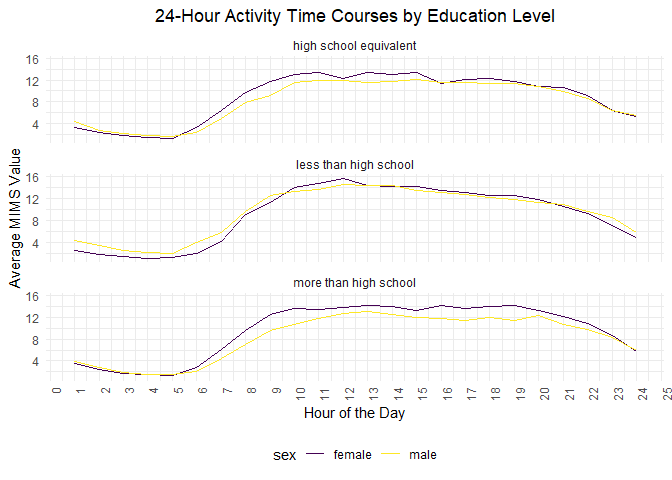
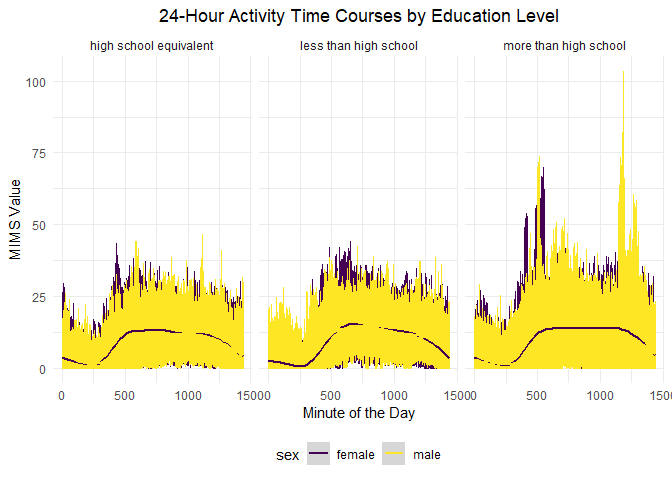
I noticed that I misread the prompt for probem 3 which led me to creating the wrong 3-panel plot. I was grouping by hours but should have just focused on the minutes. I fixed this issue then also added a trend line with geom_smooth. Additionally, since the plot changed, I needed to fix my interpreta

diff --git a/p8105_hw3_sjk2254.md b/p8105_hw3_sjk2254.md
@@ -447,33 +447,33 @@ have higher values.
 ``` r
 # making a 3-panel plot
 
-ac_dem_df |> 
-  mutate(minute = as.numeric(minute),
-         hour = (minute - 1) %/% 60 + 1) |> 
-  group_by(hour, education, sex) |> 
-  summarise(average_activity = mean(mims_values)) |> 
-  ggplot(aes(x = hour, y = average_activity, color = sex)) +
+ac_dem_df |>
+  mutate(minute = as.numeric(minute)) |> 
+  group_by(seqn) |> 
+  ggplot(aes(x = minute, y = mims_values, color = sex)) +
   geom_line() +
-  scale_x_continuous(n.breaks=24) +
-  facet_wrap(~education, ncol = 1) +
+  geom_smooth(aes(group = sex)) +
+  facet_wrap(~education, nrow = 1) +
   labs(
-    x = "Hour of the Day",
-    y = "Average MIMS Value",
+    x = "Minute of the Day",
+    y = "MIMS Value",
     title = "24-Hour Activity Time Courses by Education Level"
   ) +
-  theme(axis.text.x = element_text(angle = 90, vjust = 1, hjust=1)) +
   theme(plot.title = element_text(hjust = 0.5))
 ```
 
 ![](p8105_hw3_sjk2254_files/figure-gfm/unnamed-chunk-22-1.png)<!-- -->
 
 The plot above shows the 24-hour average activity time courses for each
-sex based on each education level. You can see that in all educational
-levels, there is little activity in the beginning hours (roughly 1 - 5),
-an increase in activity (roughly 5 - 10), a fairly steady amount of
-activity (roughly 10 - 19), and lastly, there is a decrease in activity
-(roughly 19 - 24). This could be due to sleeping patterns. In the early
-hours (roughly 1 - 5), most people are asleep, then they get up and
-start exercising (roughly 5 - 10). This then steadies off (roughly 10 -
-19) due to people’s general exercise habits then there’s a decrease
-(roughly 19 - 24) as people go to sleep.
+sex based on each education level. According to the trend lines, you can
+see that in all educational levels, there is little activity in the
+beginning minutes, an increase in activity, a fairly steady amount of
+activity, and lastly, there is a decrease in activity. This could be due
+to sleeping patterns. In the early hours, most people are asleep, then
+they get up and start exercising. This then steadies off due to people’s
+general exercise habits then there’s a decrease as people go to sleep.
+Overall, the more than high school education group has more MIMS values,
+on average, compared to the other two educational groups. Between the
+sex, there is fairly similar patterns except in the more than high
+school education level where the males have a noticeable greater
+increase in MIMS values than females, during the later minutes.
